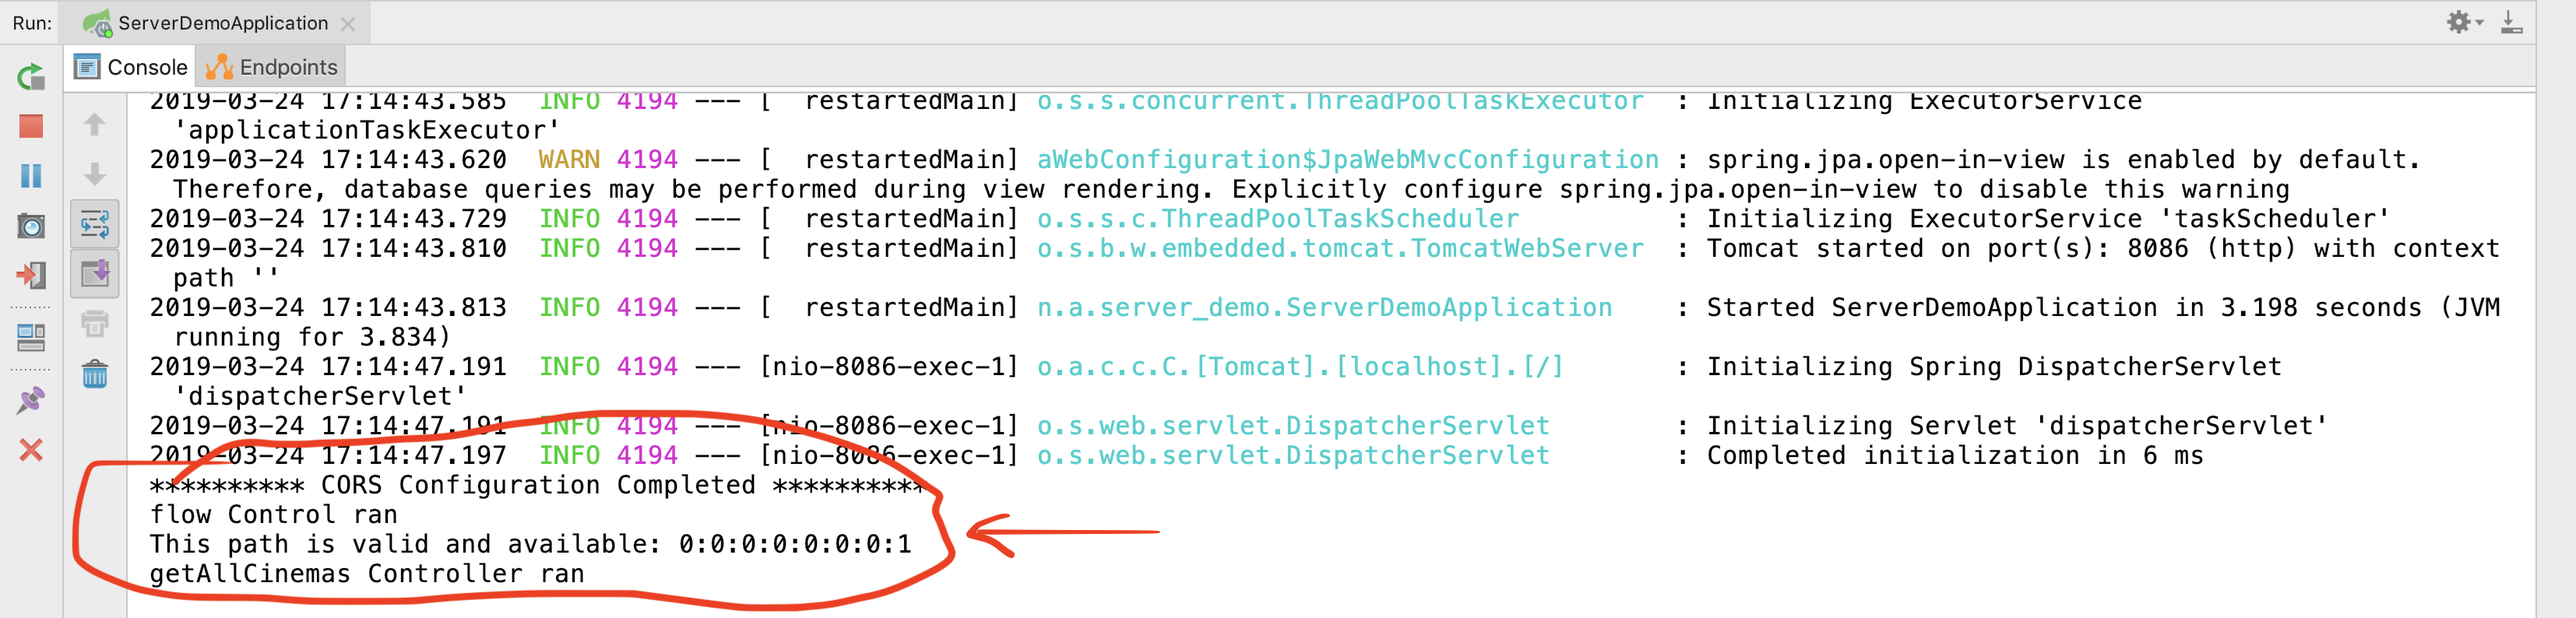
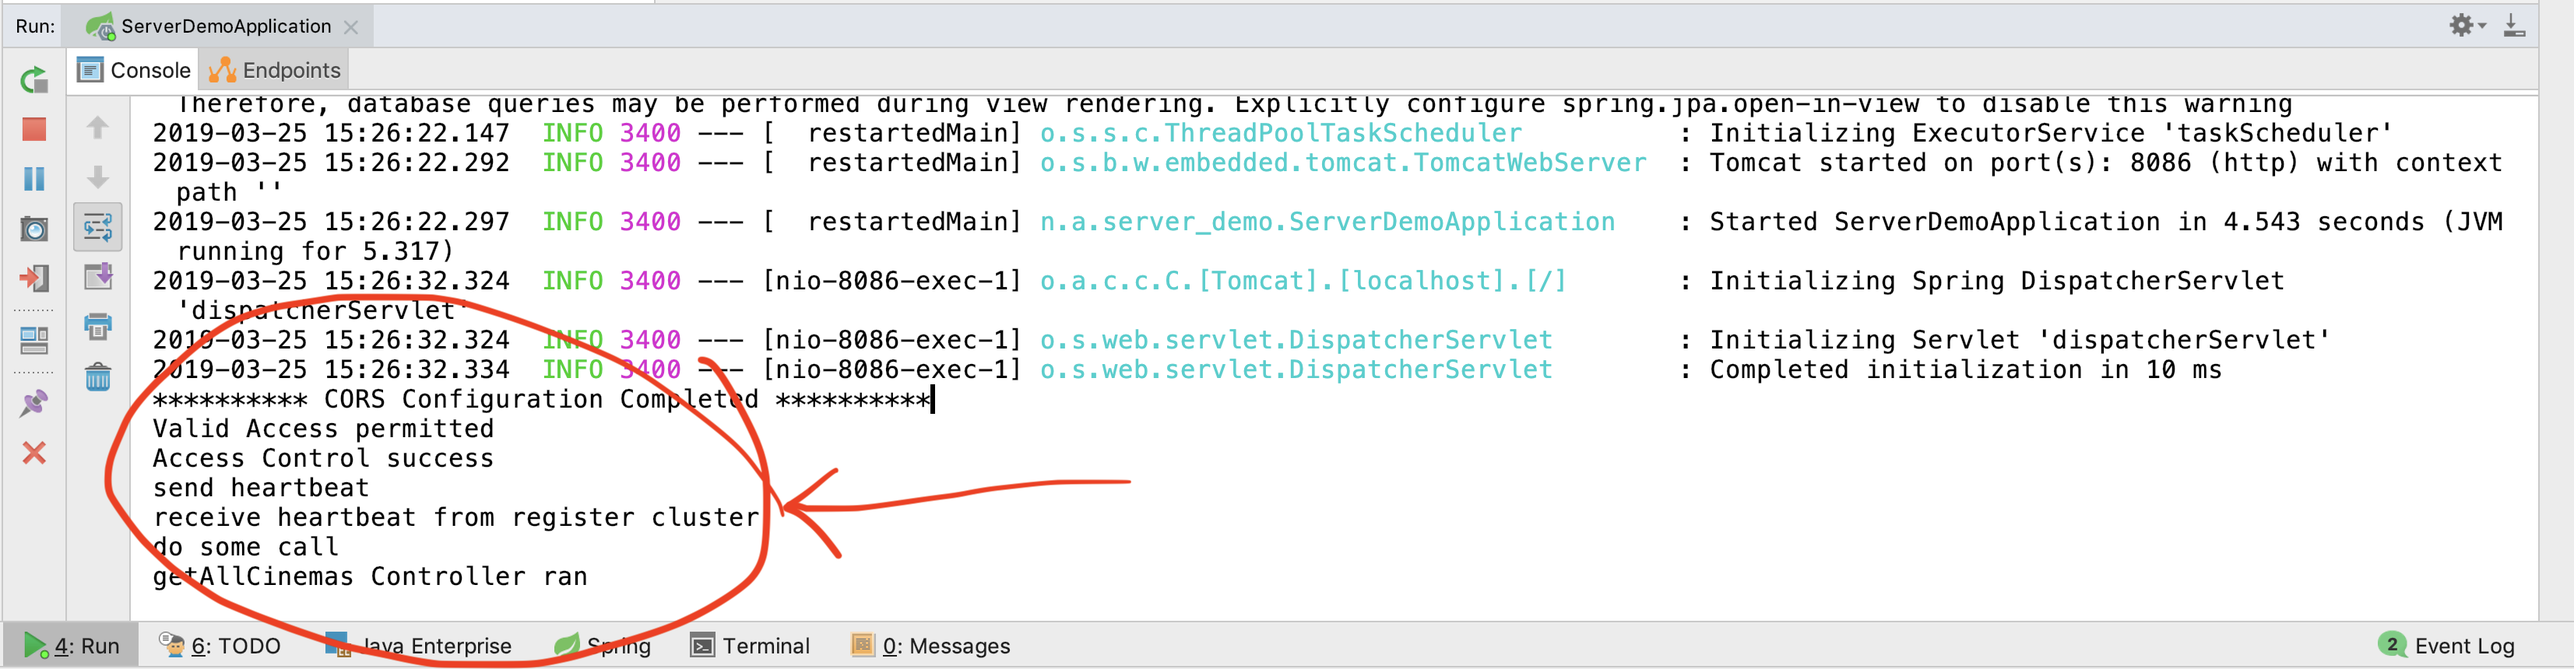
demo update

diff --git a/DEMO/ArchitectureServerDemo/src/main/java/nju/architecture/server_demo/api_gateway/RPCProxy.java b/DEMO/ArchitectureServerDemo/src/main/java/nju/architecture/server_demo/api_gateway/RPCProxy.java
@@ -5,25 +5,30 @@ import nju.architecture.server_demo.register_cluster.serviceinfo.ServiceInfo;
 
 public class RPCProxy {
 
-    private ServiceCache serviceCache;
+    private ServiceCache serviceCache = new ServiceCache();
+
+    private ServiceChecker serviceChecker = new ServiceChecker();
 
     public Object callService(String path) {
-        loadBalance();
         System.out.println("do some call");
         return new User();
     }
 
     public ServiceInfo getServicePath(String serviceName) {
-        ServiceInfo serviceInfo = serviceCache.getPath(serviceName);
-        if (serviceInfo == null) {
-            System.out.println("get Service Info from register cluster");
-            serviceCache.addToServiceCache(new ServiceInfo());
-            serviceInfo = serviceCache.getPath(serviceName);
+        if (isServiceAvailable(serviceName)) {
+            ServiceInfo serviceInfo = serviceCache.getPath(serviceName);
+            if (serviceInfo == null) {
+                System.out.println("get Service Info from register cluster");
+                serviceCache.addToServiceCache(new ServiceInfo());
+                serviceInfo = serviceCache.getPath(serviceName);
+            }
+            return serviceInfo;
+        } else {
+            return null;
         }
-        return serviceInfo;
     }
 
-    private void loadBalance() {
-        System.out.println("do load balance");
+    private boolean isServiceAvailable(String serviceName) {
+        return serviceChecker.receiveHeartbeat();
     }
 }

diff --git a/DEMO/ArchitectureServerDemo/src/main/java/nju/architecture/server_demo/api_gateway/RequestFilter.java b/DEMO/ArchitectureServerDemo/src/main/java/nju/architecture/server_demo/api_gateway/RequestFilter.java
@@ -1,7 +1,5 @@
 package nju.architecture.server_demo.api_gateway;
 
-import org.springframework.beans.factory.annotation.Autowired;
-import org.springframework.http.HttpRequest;
 import org.springframework.web.filter.GenericFilterBean;
 
 import javax.servlet.*;
@@ -9,8 +7,6 @@ import javax.servlet.http.HttpServletResponse;
 import java.io.IOException;
 
 public class RequestFilter extends GenericFilterBean implements Filter {
-
-    private SecurityChecker securityChecker = new SecurityChecker();
 
     @Override
     public void doFilter(ServletRequest request, ServletResponse response, FilterChain chain)
@@ -24,9 +20,17 @@ public class RequestFilter extends GenericFilterBean implements Filter {
 
         System.out.println("********** CORS Configuration Completed **********");
 
-        securityChecker.flowControl(null);
-        securityChecker.isValidPath(request.getLocalAddr());
+        if (isValidPath(request)) {
+            System.out.println("Valid Access permitted");
+        } else {
+            System.out.println("Invalid Access denied");
+        }
 
+        System.out.println("Access Control success");
         chain.doFilter(request, response);
+    }
+
+    private boolean isValidPath(ServletRequest request) {
+        return true;
     }
 }

diff --git a/DEMO/ArchitectureServerDemo/src/main/java/nju/architecture/server_demo/api_gateway/controllers/CinemaController.java b/DEMO/ArchitectureServerDemo/src/main/java/nju/architecture/server_demo/api_gateway/controllers/CinemaController.java
@@ -3,6 +3,7 @@ package nju.architecture.server_demo.api_gateway.controllers;
 import nju.architecture.server_demo.api_gateway.RPCProxy;
 import nju.architecture.server_demo.database_cluster.entity.Cinema;
 import nju.architecture.server_demo.database_cluster.entity.Movie;
+import nju.architecture.server_demo.register_cluster.serviceinfo.ServiceInfo;
 import org.springframework.web.bind.annotation.*;
 
 import java.util.ArrayList;
@@ -12,7 +13,7 @@ import java.util.List;
 @RequestMapping("/cinema")
 public class CinemaController {
 
-    private RPCProxy proxy;
+    private RPCProxy proxy = new RPCProxy();
 
     @PostMapping(value = "/addCinema")
     public long addCinema(@RequestParam Cinema cinema) {
@@ -28,6 +29,8 @@ public class CinemaController {
 
     @GetMapping(value = "/getAllCinemas")
     public List<Cinema> getAllCinemas() {
+        ServiceInfo serviceInfo = proxy.getServicePath("cinema");
+        proxy.callService(serviceInfo.getPath());
         System.out.println("getAllCinemas Controller ran");
         return new ArrayList<>();
     }

diff --git a/DEMO/ArchitectureServerDemo/src/main/java/nju/architecture/server_demo/register_cluster/ServiceNode.java b/DEMO/ArchitectureServerDemo/src/main/java/nju/architecture/server_demo/register_cluster/ServiceNode.java
@@ -8,7 +8,7 @@ import java.util.List;
 @Data
 public class ServiceNode implements ServiceListener, ServiceDispatcher, NodeSynchronizer {
 
-    public static ServiceNode leader;
+    public static ServiceNode leader = new ServiceNode();
 
     private long id;
 
@@ -29,6 +29,11 @@ public class ServiceNode implements ServiceListener, ServiceDispatcher, NodeSync
     @Override
     public ServiceInfo dispatchService(String name) {
         return new ServiceInfo();
+    }
+
+    @Override
+    public void sendHeartbeat() {
+        System.out.println("send heartbeat");
     }
 
     @Override

diff --git a/DEMO/ArchitectureServerDemo/src/main/java/nju/architecture/server_demo/api_gateway/ServiceChecker.java b/DEMO/ArchitectureServerDemo/src/main/java/nju/architecture/server_demo/api_gateway/ServiceChecker.java
@@ -1,0 +1,12 @@
+package nju.architecture.server_demo.api_gateway;
+
+import nju.architecture.server_demo.register_cluster.ServiceNode;
+
+public class ServiceChecker {
+
+    public boolean receiveHeartbeat() {
+        ServiceNode.leader.sendHeartbeat();
+        System.out.println("receive heartbeat from register cluster");
+        return true;
+    }
+}

diff --git a/DEMO/ArchitectureServerDemo/src/main/java/nju/architecture/server_demo/register_cluster/ServiceDispatcher.java b/DEMO/ArchitectureServerDemo/src/main/java/nju/architecture/server_demo/register_cluster/ServiceDispatcher.java
@@ -5,4 +5,6 @@ import nju.architecture.server_demo.register_cluster.serviceinfo.ServiceInfo;
 public interface ServiceDispatcher {
 
     ServiceInfo dispatchService(String name);
+
+    void sendHeartbeat();
 }

diff --git a/DEMO/document/README.md b/DEMO/document/README.md
@@ -48,7 +48,7 @@
 
 ### 2.1 运行客户端
 
-点击选择要运行的iOS设备，之后点击左上角的运行按钮，可以运行在对应的模拟器上
+在Xcode中点击选择要运行的iOS设备，之后点击左上角的运行按钮，可以运行在对应的模拟器上
 
 ![](pics/2.运行方式-客户端-1.png)
 
